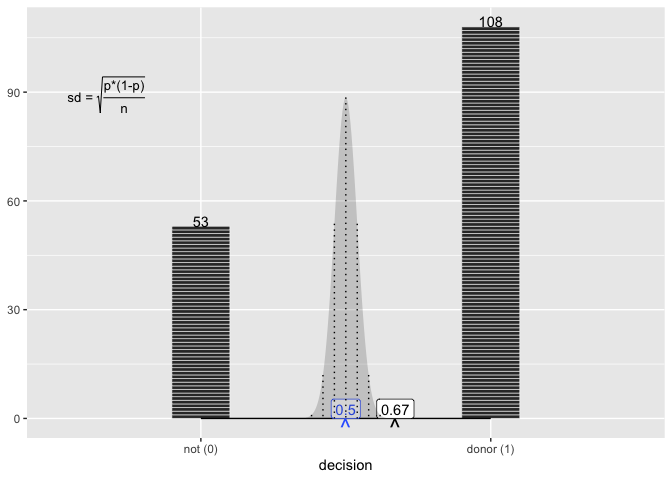
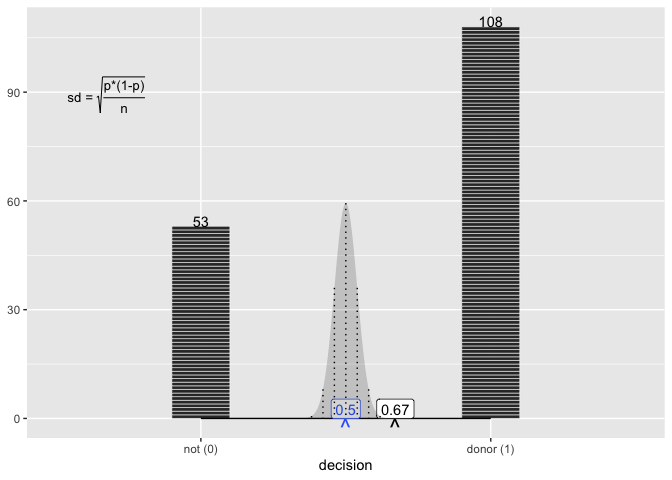
n max and n

Changed region(s): [[0.4688, 0.2188, 0.5625, 0.875]]

diff --git a/README.md b/README.md
@@ -222,6 +222,8 @@ compute_dnorm_prop <- function(data, scales, null = .5,   dist_sds = seq(-3.5, 3
 ){
   
   n <- data |> nrow()
+  n_max <- data |> dplyr::count(.by = x) |> dplyr::pull() |> max()
+
   
   sd = sqrt(null * (1 - null)/n) # sd of the null distribution
   
@@ -230,7 +232,7 @@ compute_dnorm_prop <- function(data, scales, null = .5,   dist_sds = seq(-3.5, 3
   data.frame(x = q) %>%
     dplyr::mutate(height = dnorm(q, sd = sd, mean = null)) %>%
     dplyr::mutate(height_max = dnorm(0, sd = sd, mean = 0)) %>%
-    dplyr::mutate(y = .55*n*height/height_max) %>%  # This is a bit fragile...
+    dplyr::mutate(y = .55*n_max*height/height_max) %>%  # This is a bit fragile...
     dplyr::mutate(xend = x,
            yend = 0) %>% 
     # @teunbrand ggplot2::GeomArea$setup_data() requires a group column. Your panel computation does not preserve groups, but it should.
@@ -245,6 +247,8 @@ compute_dnorm_prop_sds <- function(data, scales, null = .5,
   
   n <- data |> nrow()
   
+  n_max <- data |> dplyr::count(.by = x) |> dplyr::pull() |> max()
+  
   sd = sqrt(null * (1 - null)/n) # sd of the null distribution
   
   q <- dist_sds * sd + null
@@ -252,7 +256,7 @@ compute_dnorm_prop_sds <- function(data, scales, null = .5,
   data.frame(x = q) %>%
     dplyr::mutate(height = dnorm(q, sd = sd, mean = null)) %>%
     dplyr::mutate(height_max = dnorm(0, sd = sd, mean = 0)) %>%
-    dplyr::mutate(y = .55*n*height/height_max) %>% # This is a bit fragile...
+    dplyr::mutate(y = .55*n_max*height/height_max) %>% # This is a bit fragile...
     dplyr::mutate(xend = x,
            yend = 0)
 
